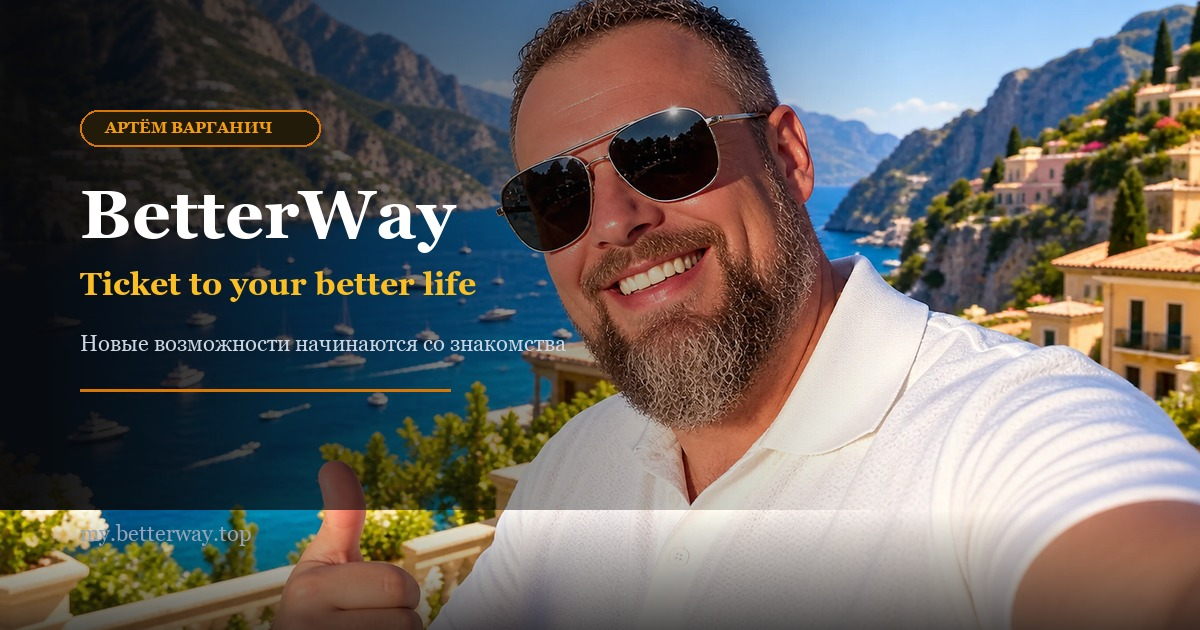
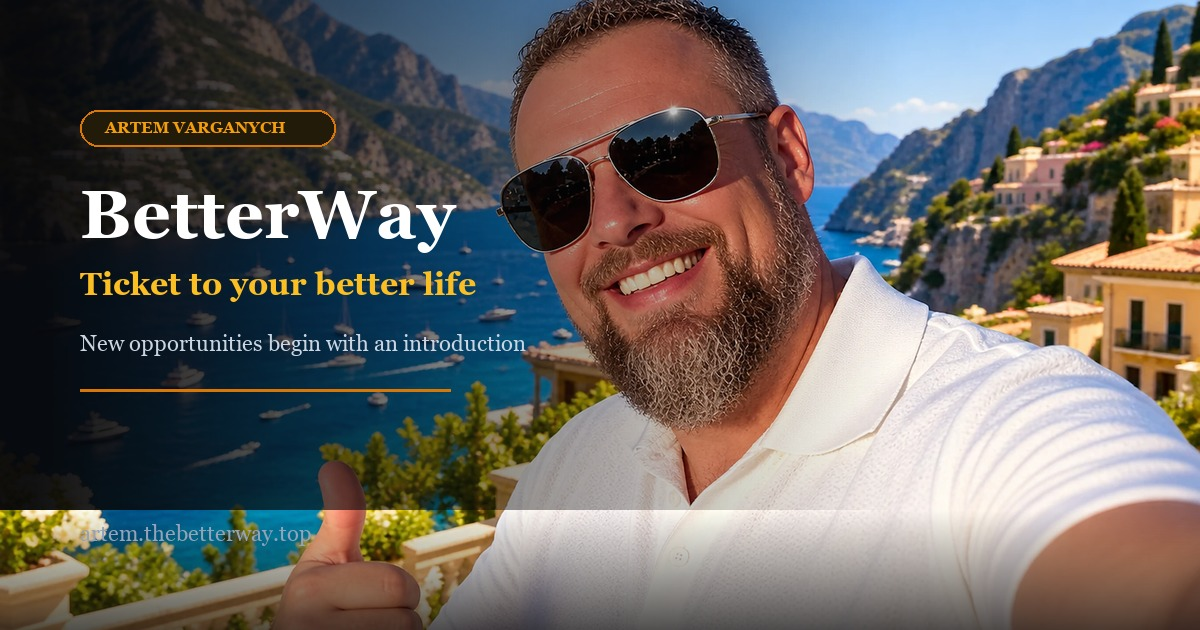
Implement dynamic multilingual Open Graph previews for Telegram/WhatsApp/Facebook in UK, RU, and EN

Changed region(s): [[0.0617, 0.5127, 0.4625, 0.573], [0.0617, 0.8143, 0.2775, 0.8746], [0.0925, 0.1508, 0.2775, 0.2413]]

diff --git a/index.html b/index.html
@@ -15,27 +15,24 @@
   <!-- Open Graph / Telegram / WhatsApp / Facebook -->
   <meta property="og:type" content="website">
   <meta property="og:site_name" content="BetterWay">
-  <meta property="og:title" content="Artem Varganych — How We Saved $1,097 (-67%) on a 5★ Resort">
-  <meta property="og:description" content="Real price comparison (Booking vs private club rate), video introduction, and free club rate check for your hotel.">
+  <meta property="og:title" content="BetterWay — Ticket to your better life">
+  <meta property="og:description" content="Hi, I'm Artem! Real journey, projects, experience in Canada and Ukraine, and new opportunities for travel, growth, and lifestyle.">
   <meta property="og:url" content="https://artem.thebetterway.top/">
-  <meta property="og:image" content="https://artem.thebetterway.top/og_preview_1200x630.jpg">
-  <meta property="og:image:secure_url" content="https://artem.thebetterway.top/og_preview_1200x630.jpg">
+  <meta property="og:image" content="https://artem.thebetterway.top/betterway_og_en.jpg">
+  <meta property="og:image:secure_url" content="https://artem.thebetterway.top/betterway_og_en.jpg">
   <meta property="og:image:type" content="image/jpeg">
   <meta property="og:image:width" content="1200">
   <meta property="og:image:height" content="630">
   <meta property="og:image:alt" content="BetterWay — Ticket to your better life">
   <meta property="og:locale" content="en_US">
+  <meta property="og:locale:alternate" content="uk_UA">
   <meta property="og:locale:alternate" content="ru_RU">
 
   <!-- Twitter Card -->
   <meta name="twitter:card" content="summary_large_image">
-  <meta name="twitter:title" content="Artem Varganych — Travel up to 67% off & Online Business">
-  <meta name="twitter:description" content="Send me your hotel, and I'll check its price through our private club database for free.">
-  <meta name="twitter:image" content="https://artem.thebetterway.top/og_preview_1200x630.jpg">
-  <meta name="twitter:card" content="summary_large_image">
   <meta name="twitter:title" content="BetterWay — Ticket to your better life">
-  <meta name="twitter:description" content="Привет, я Артём! Мой путь, реальные проекты, опыт в Канаде и Украине, и новые возможности для роста и повышения качества жизни.">
-  <meta name="twitter:image" content="https://artem.thebetterway.top/betterway_og.jpg">
+  <meta name="twitter:description" content="Hi, I'm Artem! Real journey, projects, experience in Canada and Ukraine, and new opportunities for travel, growth, and lifestyle.">
+  <meta name="twitter:image" content="https://artem.thebetterway.top/betterway_og_en.jpg">
 
   <!-- Performance & Preconnect Hints -->
   <link rel="preconnect" href="https://fonts.googleapis.com">
@@ -2881,6 +2878,9 @@
     // 5. LANGUAGE ROUTING & LOCALIZATION
     // ==========================================
     function detectInitialLanguage() {
+      if (typeof window !== 'undefined' && window.SERVER_LANG) {
+        return window.SERVER_LANG;
+      }
       const urlParams = new URLSearchParams(window.location.search);
       const langParam = (urlParams.get('lang') || '').toLowerCase();
       const path = window.location.pathname.toLowerCase();

diff --git a/index.php b/index.php
@@ -1,0 +1,84 @@
+<?php
+// BetterWay Multilingual Dynamic OG & Language Controller
+// Supports full Open Graph, Twitter Card, and Meta Tags for Telegram, WhatsApp, Viber, Facebook, Twitter, and Browsers
+
+$lang = isset($_GET['lang']) ? strtolower(trim($_GET['lang'])) : '';
+if ($lang === 'ua') $lang = 'uk';
+if ($lang !== 'ru' && $lang !== 'uk') {
+    $lang = 'en';
+}
+
+$meta = [
+    'uk' => [
+        'title' => 'Артем Варганич | Клубні подорожі до 67% та онлайн-бізнес (BetterWay)',
+        'description' => 'Привіт, я Артем! Реальний досвід, проєкти в Канаді та Україні, подорожі в готелях 5★ зі знижкою до 67% та онлайн-бізнес.',
+        'og_title' => 'BetterWay — Квиток у твоє краще життя',
+        'og_desc' => 'Привіт, я Артем! Мій шлях, реальні проєкти, досвід у Канаді та Україні, і нові можливості для зростання та підвищення якості життя.',
+        'og_image' => 'https://artem.thebetterway.top/betterway_og_uk.jpg',
+        'locale' => 'uk_UA',
+        'url' => 'https://artem.thebetterway.top/?lang=uk'
+    ],
+    'ru' => [
+        'title' => 'Артём Варганич | Клубные путешествия до 67% и онлайн-бизнес (BetterWay)',
+        'description' => 'Привет, я Артём! Мой путь, реальные проекты, опыт в Канаде и Украине, и новые возможности для роста и повышения качества жизни.',
+        'og_title' => 'BetterWay — Билет в твою лучшую жизнь',
+        'og_desc' => 'Привет, я Артём! Мой путь, реальные проекты, опыт в Канаде и Украине, и новые возможности для роста и повышения качества жизни.',
+        'og_image' => 'https://artem.thebetterway.top/betterway_og_ru.jpg',
+        'locale' => 'ru_RU',
+        'url' => 'https://artem.thebetterway.top/?lang=ru'
+    ],
+    'en' => [
+        'title' => 'Artem Varganych | Club Travel up to 67% off & Online Business (BetterWay)',
+        'description' => "Hi, I'm Artem! Real journey, projects, experience in Canada and Ukraine, and new opportunities for travel, growth, and lifestyle.",
+        'og_title' => 'BetterWay — Ticket to your better life',
+        'og_desc' => "Hi, I'm Artem! Real journey, projects, experience in Canada and Ukraine, and new opportunities for travel, growth, and lifestyle.",
+        'og_image' => 'https://artem.thebetterway.top/betterway_og_en.jpg',
+        'locale' => 'en_US',
+        'url' => 'https://artem.thebetterway.top/'
+    ]
+];
+
+$cur = $meta[$lang];
+
+function escapeMetaAttr($str) {
+    return str_replace(['"', '<', '>'], ['&quot;', '&lt;', '&gt;'], $str);
+}
+
+$html = file_get_contents(__DIR__ . '/index.html');
+if ($html === false) {
+    http_response_code(500);
+    echo "Site temporarily unavailable.";
+    exit;
+}
+
+// 1. Replace <html ...>
+$html = preg_replace('/<html[^>]*>/i', '<html lang="' . escapeMetaAttr($lang) . '">', $html, 1);
+
+// 2. Replace <title>
+$html = preg_replace('/<title>.*?<\/title>/is', '<title>' . escapeMetaAttr($cur['title']) . '</title>', $html, 1);
+
+// 3. Replace <meta name="description" ...>
+$html = preg_replace('/<meta\s+name="description"\s+content="[^"]*"/is', '<meta name="description" content="' . escapeMetaAttr($cur['description']) . '"', $html, 1);
+
+// 4. Replace <link rel="canonical" ...>
+$html = preg_replace('/<link\s+rel="canonical"\s+href="[^"]*"/is', '<link rel="canonical" href="' . escapeMetaAttr($cur['url']) . '"', $html, 1);
+
+// 5. Replace Open Graph tags
+$html = preg_replace('/<meta\s+property="og:title"\s+content="[^"]*"/is', '<meta property="og:title" content="' . escapeMetaAttr($cur['og_title']) . '"', $html, 1);
+$html = preg_replace('/<meta\s+property="og:description"\s+content="[^"]*"/is', '<meta property="og:description" content="' . escapeMetaAttr($cur['og_desc']) . '"', $html, 1);
+$html = preg_replace('/<meta\s+property="og:url"\s+content="[^"]*"/is', '<meta property="og:url" content="' . escapeMetaAttr($cur['url']) . '"', $html, 1);
+$html = preg_replace('/<meta\s+property="og:image"\s+content="[^"]*"/is', '<meta property="og:image" content="' . escapeMetaAttr($cur['og_image']) . '"', $html, 1);
+$html = preg_replace('/<meta\s+property="og:image:secure_url"\s+content="[^"]*"/is', '<meta property="og:image:secure_url" content="' . escapeMetaAttr($cur['og_image']) . '"', $html, 1);
+$html = preg_replace('/<meta\s+property="og:locale"\s+content="[^"]*"/is', '<meta property="og:locale" content="' . escapeMetaAttr($cur['locale']) . '"', $html, 1);
+
+// 6. Replace Twitter Card tags
+$html = preg_replace('/<meta\s+name="twitter:title"\s+content="[^"]*"/is', '<meta name="twitter:title" content="' . escapeMetaAttr($cur['og_title']) . '"', $html);
+$html = preg_replace('/<meta\s+name="twitter:description"\s+content="[^"]*"/is', '<meta name="twitter:description" content="' . escapeMetaAttr($cur['og_desc']) . '"', $html);
+$html = preg_replace('/<meta\s+name="twitter:image"\s+content="[^"]*"/is', '<meta name="twitter:image" content="' . escapeMetaAttr($cur['og_image']) . '"', $html);
+
+// 7. Inject SERVER_LANG definition
+$server_script = '<script>window.SERVER_LANG = ' . json_encode($lang) . ';</script></head>';
+$html = str_replace('</head>', $server_script, $html);
+
+header('Content-Type: text/html; charset=UTF-8');
+echo $html;
